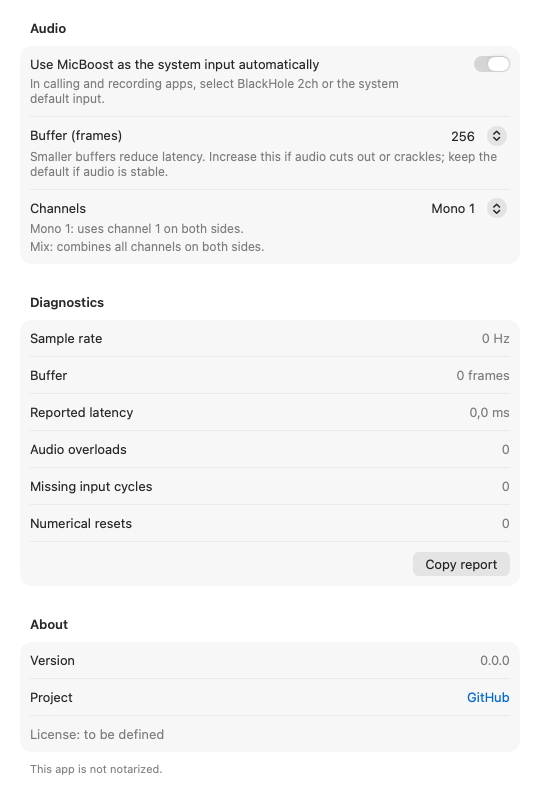
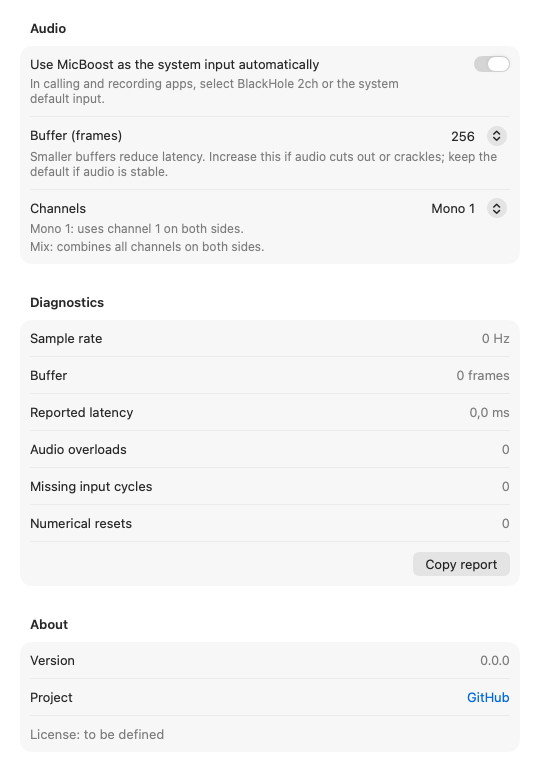
Remove the signing notice from settings

diff --git a/Sources/MicBoostUI/Views.swift b/Sources/MicBoostUI/Views.swift
@@ -340,8 +340,6 @@ import SwiftUI
                 Text(localized("License: to be defined")).foregroundStyle(.secondary)
             } header: {
                 Text(localized("About"))
-            } footer: {
-                Text(localized("This app is not notarized."))
             }
         }
         .formStyle(.grouped)

diff --git a/docs/ui.md b/docs/ui.md
@@ -90,7 +90,7 @@ junto ao rótulo e linhas de diagnóstico/sobre com rótulo à esquerda e valor 
 
 - **Áudio:** chave "Usar MicBoost como entrada do sistema automaticamente" (`manageDefaultInput`, ligada por padrão), com uma frase explicando que, desligada, cada app precisa selecionar o microfone "BlackHole 2ch" por conta própria; "Buffer (quadros)" (64/128/256/512/1024, só os valores suportados), com descrição abaixo explicando que valores menores reduzem o atraso e valores maiores podem evitar cortes ou estalos; manter o padrão se o áudio estiver estável e modo de canais da fonte atual ([audio-engine.md](audio-engine.md#canais)), com uma linha de legenda para cada opção disponível: Mono 1 (padrão), Mono 2 e demais canais mono em ordem crescente, Misturar e Estéreo. Mono N usa o canal N nos dois lados; Misturar combina todos; Estéreo separa os canais 1 e 2 em esquerda e direita. A lista e as legendas seguem essa ordem; Estéreo só aparece com dois ou mais canais.
 - **Diagnóstico** (somente leitura, atualização a 1 Hz com a janela visível): taxa de amostragem, buffer, latência reportada, overloads, `input_missing`, `nonfinite_resets`. Botão "Copiar relatório" (texto para a área de transferência).
-- **Sobre:** versão, link do projeto, aviso de que o app não é notarizado e informação de licença.
+- **Sobre:** versão, link do projeto e informação de licença.
 
 ## Teclado e acessibilidade
 

diff --git a/README.md b/README.md
@@ -84,6 +84,7 @@ Available today:
   channel options each explain how the microphone inputs map to the left and right output.
   Channel choices are ordered Mono 1 (default), Mono 2 and any further mono channels, Mix, then Stereo.
   Stereo preserves separate left and right inputs; mono sends the selected channel to both sides.
+  About shows the version, project link and license.
 - **Voice preset** for rumble reduction and gentle presence, plus a flat EQ reset.
 - **Processing switch** releases the microphone; quitting restores the previous system input
   when MicBoost still manages it.
